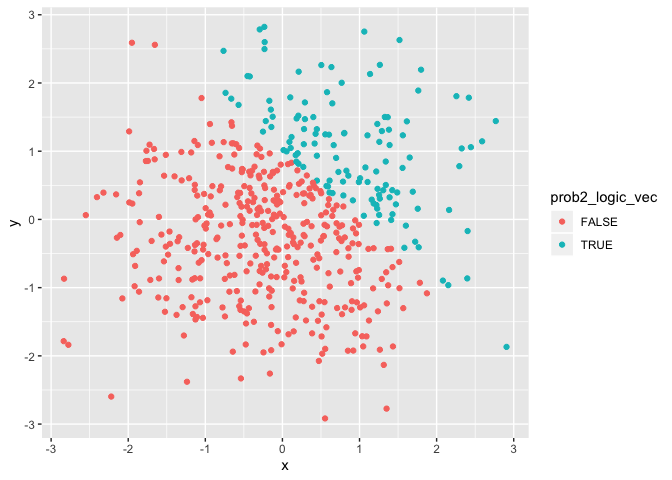
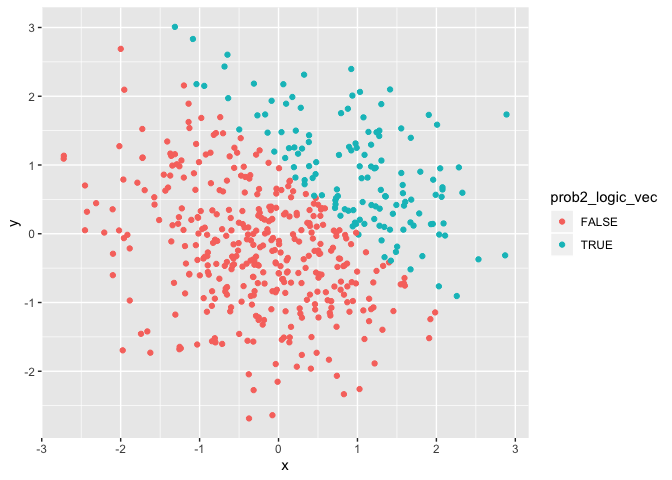
officially done with hw 1

diff --git a/p8105_hw1_hf2379.md b/p8105_hw1_hf2379.md
@@ -8,20 +8,22 @@ Holly Finertie (HF2379), Due:
 ## Create a dataframe:
 
 ``` r
-prob1_df = tibble (
-  prob1_sample = rnorm(8, mean=0, sd = 1),
+set.seed(1)
+
+prob1_df = tibble(
+  prob1_sample = rnorm(8, mean = 0, sd = 1),
   prob1_logic_vec = prob1_sample > 0,
   prob1_char_vec = c("I","Am", "A", "Little", "Confused", "Is", "This", "Right"),
   prob1_factor_vec = factor(c("yes", "no", "maybe", "yes", "no", "maybe", "yes", "no"))
 )
 ```
 
-## Try to take the mean of each variable:
+## Mean of each variable:
 
-  - **The mean of the sample size is -0.1242432**. We are able to take
+  - **The mean of the sample size is 0.1314544**. We are able to take
     the mean because the sample size is a numeric data type.
 
-  - **The mean of the logical statement is 0.25**. We are able to take
+  - **The mean of the logical statement is 0.625**. We are able to take
     the mean of the logical statement because it is a Boolean data type
     (TRUE=1 and FALSE=0). Even if the output is displayed as TRUE/FALSE,
     the values of 1 and 0 are in the background.
@@ -36,7 +38,7 @@ prob1_df = tibble (
     that does not correspond with numeric values. The error states that
     we can only take the mean of a numeric or logical argument.
 
-## First Code Chunk: Convert to numeric
+## First Code Chunk: convert to numeric
 
 ``` r
 as.numeric(pull(prob1_df, prob1_logic_vec))
@@ -44,23 +46,28 @@ as.numeric(pull(prob1_df, prob1_char_vec))
 as.numeric(pull(prob1_df, prob1_factor_vec))
 ```
 
-The as.numeric function works on the logic and factor vectors, but not
-the character vector. We already knew that we were able to take the mean
-of a Boolean data type (logic vector); however, it is surprising that
-the as.numeric function works on the factor vector when we were unable
-to take the mean. Becuase there were 3 levels, the as.numeric function
-converted the different levels to 1, 2, and 3. Last, and unsurprisingly,
-the as.numeric function did not work on the character vector. There is
-not logical way to convert random words without a pattern into
-    numbers.
+The as.numeric function works on the logical and factor vectors, but not
+the character vector.
 
-## Second Code Chunk: Convert and multiply
+**Logical**: Because the logical vector is a Boolean data type, we can
+convert the TRUE / FALSE results to 1 / 0 respectively.
+
+**Character**: I got the error “NAs introduced by coercion” showing that
+the as.numeric function did not work on the character vector.
+
+**Factor**: The as.numeric function works on the factor vector even when
+we were unable to take the mean. Becuase there were 3 levels, the
+as.numeric function converted the different levels to 1, 2, and
+    3.
+
+## Second Code Chunk: convert and multiply
 
 ``` r
 as.numeric(pull(prob1_df, prob1_logic_vec))*pull(prob1_df, prob1_sample)
 ```
 
-    ## [1] 0.000000 0.000000 0.000000 2.235050 0.000000 0.000000 0.000000 1.185998
+    ## [1] 0.0000000 0.1836433 0.0000000 1.5952808 0.3295078 0.0000000 0.4874291
+    ## [8] 0.7383247
 
 ``` r
 as.factor(pull(prob1_df, prob1_logic_vec))*pull(prob1_df, prob1_sample)
@@ -75,23 +82,23 @@ as.factor(pull(prob1_df, prob1_logic_vec))*pull(prob1_df, prob1_sample)
 as.numeric(as.factor(pull(prob1_df, prob1_logic_vec)))*pull(prob1_df, prob1_sample)
 ```
 
-    ## [1] -0.22764070 -2.27187197 -1.24547077  4.47010045 -0.18481126 -0.43334521
-    ## [7] -0.05185446  2.37199682
+    ## [1] -0.6264538  0.3672866 -0.8356286  3.1905616  0.6590155 -0.8204684
+    ## [7]  0.9748581  1.4766494
 
-As seen above, we were able to convert the logical vector into a numeric
-value and multiply by the random sample.The other two commands had more
-surprising results. We learned that converting the logical vector to a
-factor vector resulted in a vector that was unable to be multiplied by
-the random sample. Then, we were able to convert a logical vector into a
-factor vector and then into a numeric vector, which was able to be
-multiplied. Both these results align with our previous attempts to do
-math with different data types: (1) we tried to take the mean of a
-factor and that didnt’ work and (2) we convereted a factor vector into a
-numeric vector and were able to take the mean.
+**Numeric**: We were able to convert the logical vector to numeric
+vector and multiply by our random sample.
+
+**Factor**: We were unable to multiply the converted logical vector. We
+got the error: ’\*’ not meaningful for factors.
+
+**To Factor, to numeric**: We were able to convert the logical vector
+into factor and then into numeric and multiply by our random sample.
 
 # Problem 2
 
 ``` r
+set.seed(2)
+
 prob2_df = tibble(
   x = rnorm(500, mean = 0, sd = 1),
   y = rnorm(500, mean = 0, sd = 1),
@@ -101,20 +108,20 @@ prob2_df = tibble(
 )
 ```
 
-## Describing the newly created data frame
+## Describe new data frame
 
-  - This dataset contains 500 rows and 5 columns
+  - This dataset contains 500 rows and 5 columns.
 
-  - The mean of x is 0.0078396
+  - The mean of x is 0.0616923.
 
-  - The median of x is -0.0164342
+  - The median of x is 0.0439172.
 
-  - The standard deviation of x is 1.0242121
+  - The standard deviation of x is 1.0323776.
 
   - The proportion of cases for which x + y \> 1 is
-0.246
+0.266.
 
-## Plots for Problem 2
+## Plots
 
 ``` r
 plot1 = ggplot(prob2_df, aes(x = x, y = y, color = prob2_logic_vec)) + geom_point()
@@ -158,22 +165,10 @@ plot3
     This factor vector was created from the logical vector and therefore
     the graph is identical to plot 1.
 
-## Saving my scatterplots
+## Saving my first scatterplot
 
 ``` r
 ggsave(plot1, file = "plot1.png")
-```
-
-    ## Saving 7 x 5 in image
-
-``` r
-ggsave(plot2, file = "plot2.png")
-```
-
-    ## Saving 7 x 5 in image
-
-``` r
-ggsave(plot3, file = "plot3.png")
 ```
 
     ## Saving 7 x 5 in image
